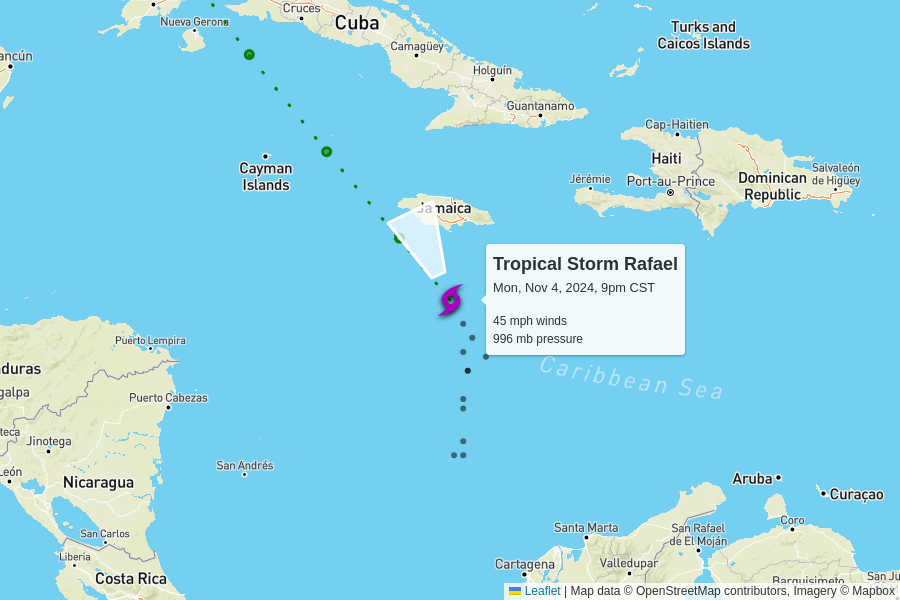
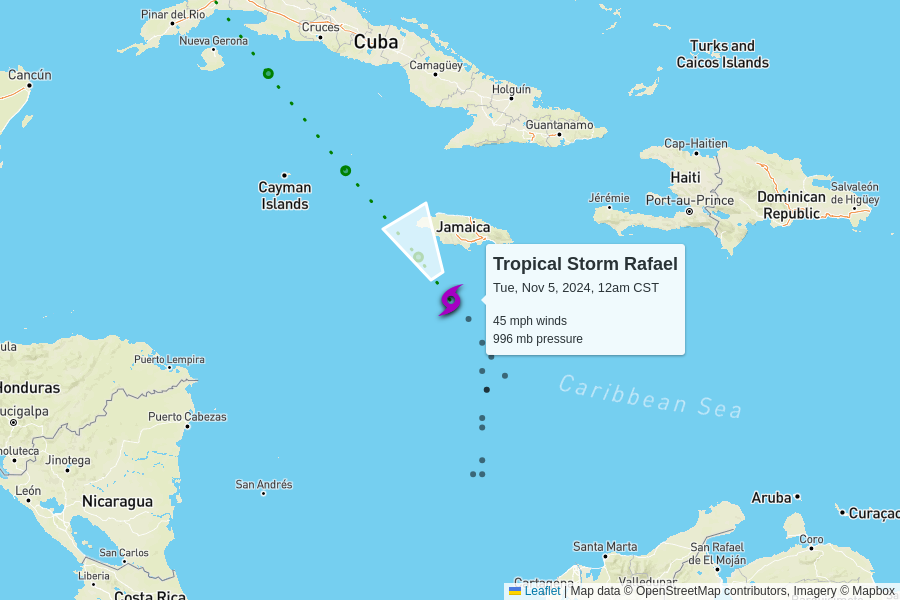
automatic update

diff --git a/docs/index.html b/docs/index.html
@@ -102,7 +102,7 @@
         <td colspan="6" class="storm category-0" >
           <h2>
             Tropical Storm Rafael
-            <p class="updated">last updated <span data-time>2024-11-05T03:00:00.000Z</span></p>
+            <p class="updated">last updated <span data-time>2024-11-05T06:00:00.000Z</span></p>
           </h2>
         </td>
       </tr>
@@ -118,11 +118,11 @@
       <tr>
         <td class="spacer"></td>
         <td>45 mph<br>0 mph since last update</td>
-        <td>996 mb<br>-4 mb since last update</td>
+        <td>996 mb<br>0 mb since last update</td>
         <td>
           12 mph to the north-northwest
           <br/>
-          <span style="display: inline-block; font-size: 1.5em; transform: rotate(335deg);">↑</span>
+          <span style="display: inline-block; font-size: 1.5em; transform: rotate(330deg);">↑</span>
         </td>
         <td><a href="https://raw.githubusercontent.com/mgwalker/atlantic-hurricanes/main/data/csv/AL182024.csv">AL182024.csv</a></td>
         <td><a href="https://www.nhc.noaa.gov/archive/2024/RAFAEL.shtml?">NHC advisories</a></td>
